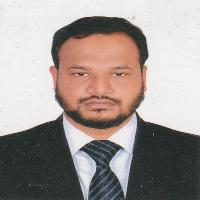
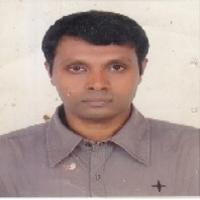
commi

diff --git a/index.html b/index.html
@@ -238,6 +238,7 @@
 <body>
     <!-- Header -->
     <header>
+        <img src="Images/college logo" style="width: 100px;" alt="">
         <h1><b>Al-Haj Noor Mia College</b></h1>
         <h3>Kankapaith, Chauddagram, Cumilla</h3>
     </header>
@@ -265,7 +266,7 @@
 
 
          <!-- Founder Section -->
-<section id="founder">
+<section id="founder" style="margin-bottom: 100px;">
     <div class="founder-container">
         <div class="founder-image">
             <img src="Images/founder.jpg" alt="Founder Photo" class="banner-img">
@@ -279,22 +280,40 @@
 </section>
 
 
+<section id="founder">
+    <div class="founder-container">
+
+
+        <div class="founder-text">
+            <h2 style="text-align: center;">Principle</h2>
+            <h4 class="founder-text-h">The principal's vision for Al-Haj Noor Mia College is to create a vibrant learning atmosphere that inspires students to succeed both academically and personally. Our goal is to foster critical thinking, ethics, and leadership skills. Through innovative teaching and support, we aim to empower students to thrive and make meaningful contributions to society.</h4>
+        </div>
+
+        <div class="founder-image">
+            <img src="Images/principle.jpeg" alt="Founder Photo" class="banner-img">
+            <p class="founder-name">Sahnaj Akhter Lovely</p>
+        </div>
+        
+    </div>
+</section>
+
+
 
         <!-- Teachers Section -->
         <section id="teachers">
             <h2 id="teachers-header">Teachers</h2>
             <div id="teacher-boxes">
                 <div class="teacher-box">
-                    <img src="Images/teacher.1.jpeg" alt="Teacher 1" class="teacher-image">
-                    <b><p>MD. Monirul Islam Mazumder</p></b>
+                    <img src="Images/Teacher 1.jpeg" alt="Teacher 1" class="teacher-image">
+                    <b><p>MD. Shamsu Uddin Patwary</p></b>
                 </div>
                 <div class="teacher-box">
-                    <img src="Images/teacher 2.jpeg" alt="Teacher 2" class="teacher-image">
-                    <b><p>MD.Nazmul Hasan</p></b>
+                    <img src="Images/Teacher 2.jpeg" alt="Teacher 2" class="teacher-image">
+                    <b><p>Mosharaf Hossain Molla</p></b>
                 </div>
                 <div class="teacher-box">
-                    <img src="Images/teacher 3.jpeg" alt="Teacher 3" class="teacher-image">
-                    <b><p>Sariful Islam Bhuiyan</p></b>
+                    <img src="Images/Teacher 3.jpeg" alt="Teacher 3" class="teacher-image">
+                    <b><p>SK Anisur Rahman</p></b>
                 </div>
             </div>
         </section>
@@ -347,12 +366,14 @@
             <p><b>Address:</b> Kankapaith, Chauddagram, Cumilla</p>
             <p><b>Phone:</b> +01634567892</p>
             <p><b>Email:</b> info@noormiagovtcollege.edu</p>
+
+            <p>Our Main Website: <a href="https://alhajnoormiacollege.edu.bd">Link</a></p>
         </section>
     </div>
 
     <!-- Footer -->
     <footer>
-        <p>This Webpage made by <b>Sultana Fowzia Inna</b></p>
+        <p>This Webpage made by <b>Inna, Samira, Rahima, Asiya, Tisha</b></p>
     </footer>
 </body>
 </html>
